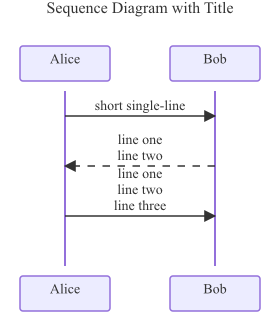
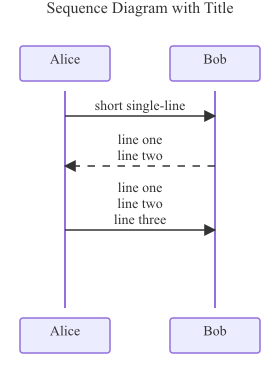
sequence: reserve extra row height for multi-line message labels (#133)
* sequence: reserve extra row height for multi-line message labels

A message label split across N lines (via <br/>) was rendered above
the message line but consumed the same defaultRowHeight as a single-
line label. Stacked multi-line messages collided: each label's top
lines crashed into the previous label's bottom lines.

Track the extra height (lineCount-1)*fontSize per multi-line message
both in countRows-equivalent (now bodyRowsAndExtra) for layout
reservation, and in renderItems for the actual curY advance.

* fix(sequence/multiline): also handle multi-line note text + add regression test

Per PR review:
- extraLabelHeight now also counts notes (note over A,B: line1<br/>line2)
  the same way as messages — note rendering had the same overlap bug.
- Factor the per-label calc into extraLinesHeight helper to keep
  layout reservation and per-item curY advance in sync.
- Add TestRenderMultilineLabelsDoNotOverlap asserting the second-line
  baseline of one message clears the top-line baseline of the next.

---------

diff --git a/pkg/renderer/sequence/renderer.go b/pkg/renderer/sequence/renderer.go
@@ -122,13 +122,13 @@ func computeLayout(d *diagram.SequenceDiagram, fontSize, pad float64) seqLayout 
 		topY += boxTitleStripH(fontSize) + boxGroupPad/2
 	}
 	bodyStart := topY + maxHeaderH + 10
-	rows := countRows(d)
+	rows, extraH := bodyRowsAndExtra(d, fontSize)
 	// messageRenderer initialises curY at bodyStart + defaultRowHeight/2
 	// so the first message line lands mid-row, and curY advances by
 	// defaultRowHeight per item. After N rows curY = bodyStart + (N+0.5)
 	// * defaultRowHeight. The reservation must match, otherwise blocks
 	// (which extend the rect to curY) bleed past bodyEnd.
-	bodyEnd := bodyStart + (float64(rows)+0.5)*defaultRowHeight
+	bodyEnd := bodyStart + (float64(rows)+0.5)*defaultRowHeight + extraH
 	if rows == 0 {
 		bodyEnd = bodyStart + defaultRowHeight
 	}
@@ -337,6 +337,40 @@ func selfMsgLeftBleed(items []diagram.SequenceItem, pIndex map[string]int, fontS
 
 func countRows(d *diagram.SequenceDiagram) int {
 	return countItemRows(d.Items)
+}
+
+// bodyRowsAndExtra returns the row count and any per-row extra
+// vertical space needed for multi-line message labels — each
+// extra line above the first contributes fontSize px of headroom.
+func bodyRowsAndExtra(d *diagram.SequenceDiagram, fontSize float64) (rows int, extra float64) {
+	rows = countItemRows(d.Items)
+	extra = extraLabelHeight(d.Items, fontSize)
+	return
+}
+
+func extraLabelHeight(items []diagram.SequenceItem, fontSize float64) float64 {
+	var extra float64
+	for _, item := range items {
+		switch {
+		case item.Message != nil && item.Message.Label != "":
+			extra += extraLinesHeight(item.Message.Label, fontSize)
+		case item.Note != nil && item.Note.Text != "":
+			extra += extraLinesHeight(item.Note.Text, fontSize)
+		case item.Block != nil:
+			extra += extraLabelHeight(item.Block.Items, fontSize)
+			for _, br := range item.Block.Branches {
+				extra += extraLabelHeight(br.Items, fontSize)
+			}
+		}
+	}
+	return extra
+}
+
+func extraLinesHeight(label string, fontSize float64) float64 {
+	if n := len(splitLabelLines(label)); n > 1 {
+		return float64(n-1) * fontSize
+	}
+	return 0
 }
 
 func countItemRows(items []diagram.SequenceItem) int {

diff --git a/pkg/renderer/sequence/renderer_test.go b/pkg/renderer/sequence/renderer_test.go
@@ -1016,6 +1016,43 @@ func TestRenderBoxGroupTitleNotClippedAtTop(t *testing.T) {
 	}
 }
 
+func TestRenderMultilineLabelsDoNotOverlap(t *testing.T) {
+	d := &diagram.SequenceDiagram{
+		Participants: []diagram.Participant{
+			{ID: "A", Kind: diagram.ParticipantKindParticipant, CreatedAtItem: -1, DestroyedAtItem: -1},
+			{ID: "B", Kind: diagram.ParticipantKindParticipant, CreatedAtItem: -1, DestroyedAtItem: -1},
+		},
+		Items: []diagram.SequenceItem{
+			diagram.NewMessageItem(diagram.Message{From: "A", To: "B", Label: "alpha<br/>beta", ArrowType: diagram.ArrowTypeSolid}),
+			diagram.NewMessageItem(diagram.Message{From: "A", To: "B", Label: "GAMMA<br/>DELTA<br/>EPSILON", ArrowType: diagram.ArrowTypeSolid}),
+		},
+	}
+	out, err := Render(d, nil)
+	if err != nil {
+		t.Fatalf("Render: %v", err)
+	}
+	raw := string(out)
+	textRe := regexp.MustCompile(`<text[^>]*y="([\d.]+)"[^>]*>([^<]+)</text>`)
+	ys := map[string]float64{}
+	for _, m := range textRe.FindAllStringSubmatch(raw, -1) {
+		y, _ := strconv.ParseFloat(m[1], 64)
+		ys[m[2]] = y
+	}
+	// Bottom of label-1 (alpha is the top line, beta below; both
+	// appear ABOVE the message line). Top of label-2 is the highest
+	// line ("GAMMA").
+	betaY, ok1 := ys["beta"]
+	gammaY, ok2 := ys["GAMMA"]
+	if !ok1 || !ok2 {
+		t.Fatalf("missing labels in SVG: betaY=%v, gammaY=%v, found=%v", ok1, ok2, ys)
+	}
+	// beta's baseline must be strictly above GAMMA's baseline by at
+	// least one fontSize, otherwise they overlap.
+	if gammaY-betaY < 12 {
+		t.Errorf("multi-line labels overlap: beta y=%.2f, GAMMA y=%.2f (gap=%.2f)", betaY, gammaY, gammaY-betaY)
+	}
+}
+
 func TestRenderRectWithLabelSuppressesBadge(t *testing.T) {
 	d := &diagram.SequenceDiagram{
 		Participants: []diagram.Participant{

diff --git a/pkg/renderer/sequence/messages.go b/pkg/renderer/sequence/messages.go
@@ -102,10 +102,13 @@ func (mr *messageRenderer) renderItems(items []diagram.SequenceItem, isTopLevel 
 			mr.handleStandaloneActivation(*item.Activation)
 		case item.Message != nil:
 			elems = append(elems, mr.renderMessage(*item.Message)...)
-			mr.curY += defaultRowHeight
+			// Multiline labels render above the message line; reserve
+			// extra vertical space so the next row's label doesn't
+			// collide with the current label's top lines.
+			mr.curY += defaultRowHeight + extraLinesHeight(item.Message.Label, mr.fontSize)
 		case item.Note != nil:
 			elems = append(elems, mr.renderNote(*item.Note)...)
-			mr.curY += defaultRowHeight
+			mr.curY += defaultRowHeight + extraLinesHeight(item.Note.Text, mr.fontSize)
 		case item.Block != nil:
 			elems = append(elems, mr.renderBlock(*item.Block, depth)...)
 		}
